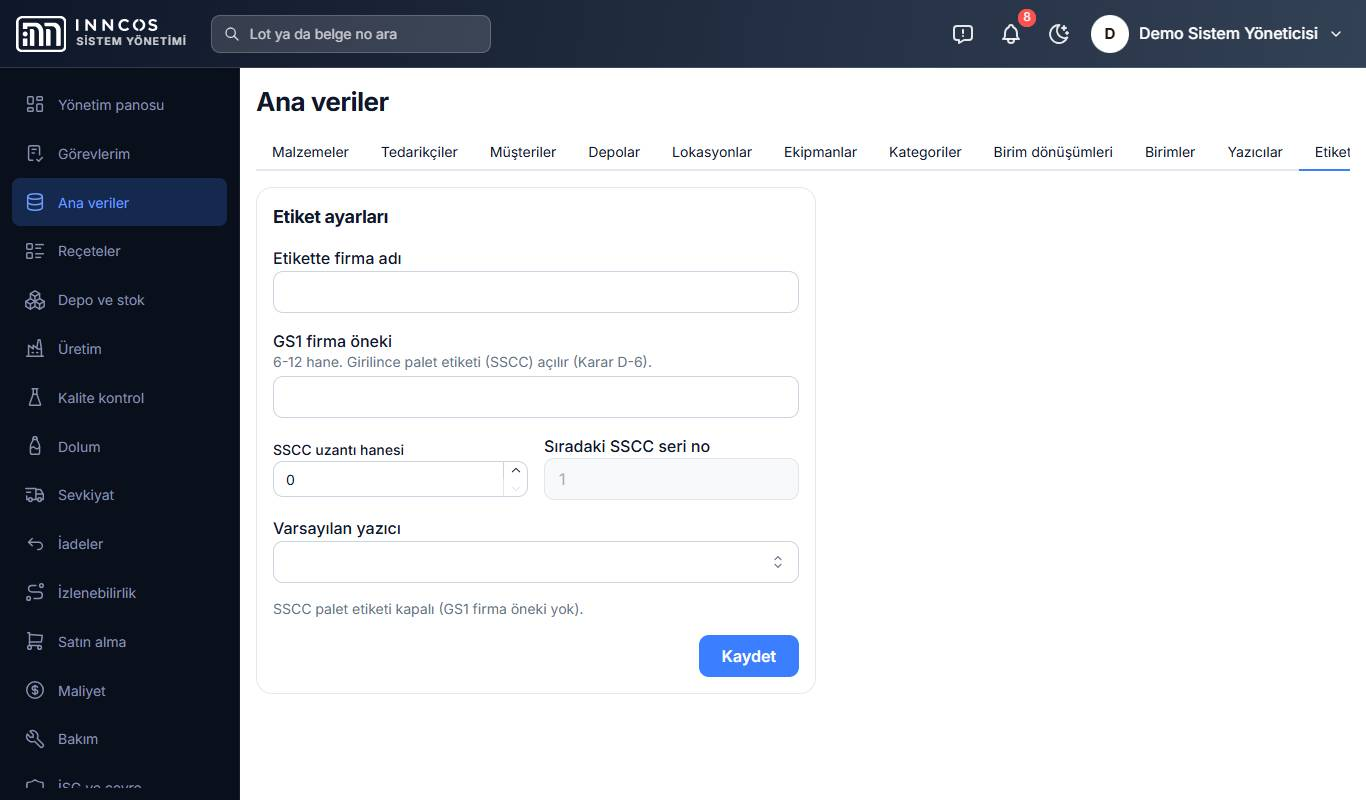
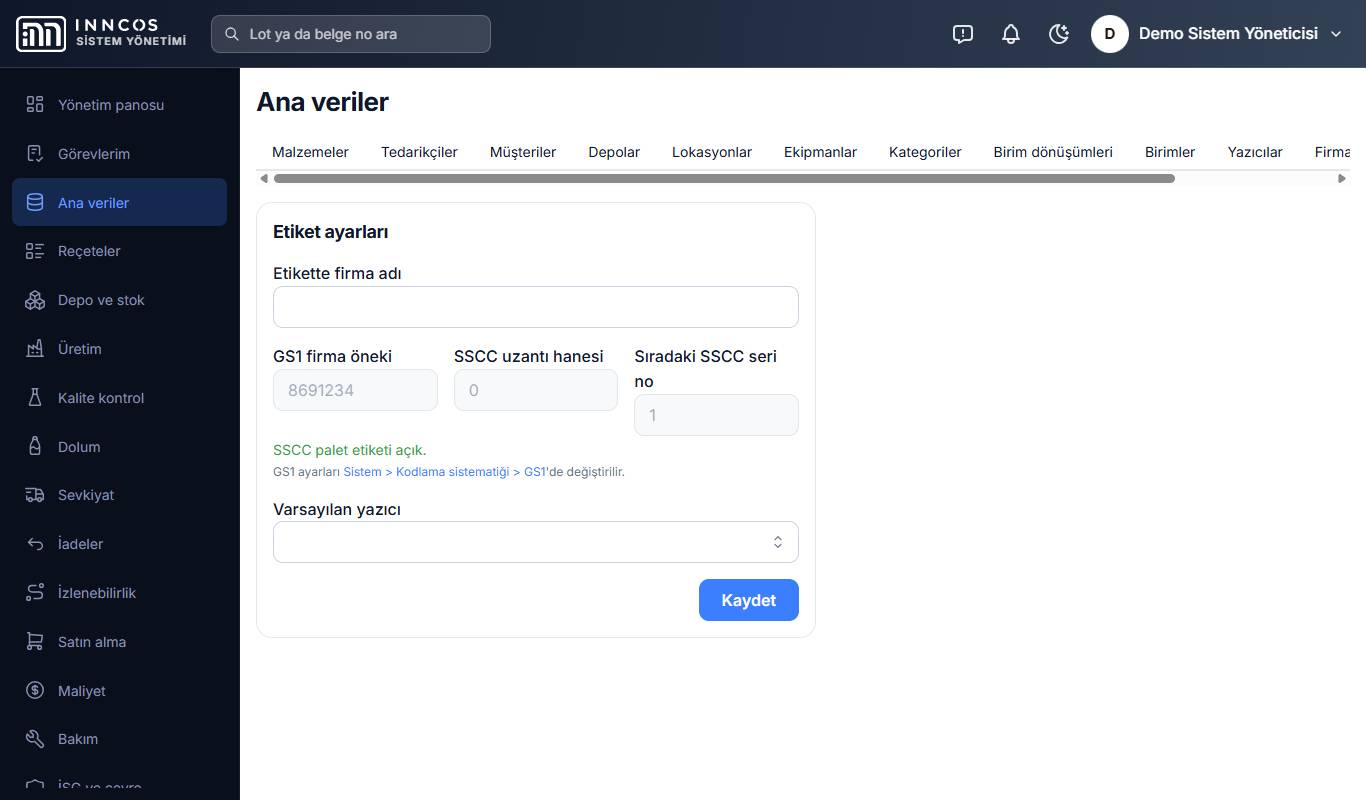
docs: kodlama sistematiği kılavuzu
Kodlama sistematiği Paket 2, Adım 9: yardım sayfasındaki rol kılavuzları.

- Sistem yöneticisi: Kodlama sistematiği bölümü (ana veri kodları, belge
  ve lot numaraları, kod göçü, çıktıların doküman kodu, GS1); Etiket
  ayarlarında GS1'in yalnız görünmesi; QR notu ve Zebra deneme baskısı.
- Planlama: kod önerisi ve kilidi, cari ülkesi, GTIN ve koli GTIN'i, koli
  içi adet değişimi, tür kilidi.
- Depo, dolum, üretim, sevkiyat: GS1 koli barkoduyla okutma, uyarılar,
  toplamada bir koli, irsaliyede koli sayısı.
- Ekran görüntüleri: admin-kodlama, admin-kodlama-gs1 (yeni),
  admin-etiket-ayarlari (yenilendi); betik bunları üretir.

diff --git a/frontend/src/modules/help/guides/admin.md b/frontend/src/modules/help/guides/admin.md
@@ -1,6 +1,6 @@
 # Sistem yöneticisi
 
-Sistem yöneticisi; kullanıcıları ve rollerini yönetir, kullanıcıların gönderdiği sorun bildirimlerini çözer, etiket yazıcılarını ve etiket ayarlarını tutar. Yönetici her menüyü görür.
+Sistem yöneticisi; kullanıcıları ve rollerini yönetir, kullanıcıların gönderdiği sorun bildirimlerini çözer, kodlama sistematiğini (kod, belge ve lot numarası biçimleri, çıktıların doküman kodu, GS1), etiket yazıcılarını ve etiket ayarlarını tutar. Yönetici her menüyü görür.
 
 ## Kullanıcı açma ve rol verme
 
@@ -42,6 +42,60 @@ Kullanıcı sağ üstteki **Sorun bildir** simgesiyle bildirim gönderince **Gö
 
 > **Sorun bildirimleri** sekmesini yalnızca sistem yöneticisi görür. Bildiren kullanıcı yalnızca kendi bildirimini açabilir.
 
+## Kodlama sistematiği
+
+Ana veri kodlarının, belge ve lot numaralarının biçimi, çıktıların doküman kodu ve GS1 ayarları **Sistem > Kodlama sistematiği** ekranındadır. Bu ekranı yalnızca sistem yöneticisi görür. Her değişiklik notuyla **Geçmiş** bölümüne yazılır. Değişiklik yalnızca bundan sonra verilecek kod ve numaraları etkiler; verilmiş olanlar değişmez.
+
+![Kodlama sistematiği](/kilavuz/admin-kodlama.jpg)
+
+**Ana veri kodları**
+
+1. Türün satırında **Düzenle**'ye basın.
+2. **Önek**'i ve **Sıra hanesi**'ni girin (ör. MLZ ve 7 hane: MLZ-0000001). Ekipmanda her ekipman türünün kendi öneki vardır.
+3. **Biçimi etkinleştir**'i işaretleyin. Etkin türde yeni kayıtta kod önerilir ve biçime uymayan yeni kod kabul edilmez. Kapalı türde kod serbesttir.
+4. Gerekirse **Sıradaki numara**'yı düzeltin. Dolu ya da başka kaydın eski kodu olan numara atlanır.
+5. **Değişiklik notu**'nu yazın, önizlemeyi kontrol edip **Kaydet**'e basın ve onaylayın.
+
+> Kayıt açıldıktan sonra kodu yalnızca sistem yöneticisi değiştirir. Eski kod kayıtta kalır; aramada, barkod okutmada ve Excel içe aktarmada tanınır, başka kayda verilmez. Birim ve H/P/EUH gibi uluslararası standart kodlar bu ekrandan değiştirilmez.
+
+**Belge ve lot numaraları**
+
+**Belge numaraları** ve **Lot numaraları** bölümlerinde önek ile yıl ya da tarih biçimi seçilir (ör. `UE-2026-00001`, `D-20261105-001`). Önek değişince sayaç yeni önekte 1'den başlar. İrsaliye numarası yasal belge numarasıdır; biçimi değiştirilemez.
+
+**Kod göçü**
+
+Mevcut kodları yeni biçime taşır. Önce yedek alın; ekran son yedeğin zamanını gösterir.
+
+1. **Kod göçü** bölümünde **Kod türü**'nü seçip **Önizle**'ye basın. Biçime uyan kodlar kalır, uymayanlar oluşturulma sırasıyla sıradaki boş kodu alır.
+2. Listeyi kontrol edin, **Göç notu**'nu yazın, taşı düğmesine basıp onaylayın.
+3. Göç geri alınabilir: **Uygulanan göçler** listesinde **Geri al**'a basın. Kodu hâlâ göçteki yeni kod olan kayıtlar eski koduna döner.
+
+> Göç stok miktarlarını, lot ve belge numaralarını değiştirmez. Eski kodlar aranmaya ve okutulmaya devam eder.
+
+**Çıktılar (doküman kodu)**
+
+Basılı çıktılara (PDF ve Excel) kalite yönetim sisteminizin doküman numarası, yayın tarihi ve revizyonu basılır.
+
+1. **Çıktılar** bölümünde çıktıyı açın. **Doküman no**'yu ve **İlk yayın tarihi**'ni girin.
+2. **Revizyonlar** altında ilk revizyonu ekleyin: revizyon no, yürürlük tarihi, değişiklik açıklaması, onaylayan ve onay tarihi.
+3. **Çıktıya basılsın**'ı işaretleyip kaydedin. Bant PDF'in her sayfasının altına, Excel'de yazdırma alt bilgisine basılır.
+
+> Belge kendi tarihinde yürürlükte olan revizyonla basılır (yeniden basımda da). Revizyonlar değiştirilemez ve silinemez. **Şablon değişti** uyarısı görürseniz değişikliği kalite sisteminizde onaylayıp yeni revizyon girin. İrsaliyede bandı açmadan önce mali müşavirinize danışın.
+
+**GS1**
+
+GS1 firma öneki palet etiketindeki SSCC numarasında ve mamullerin GTIN önerisinde kullanılır.
+
+1. **GS1** bölümünde **Düzenle**'ye basın.
+2. GS1 Türkiye'nin verdiği **Firma öneki**'ni girin. Önek girilince palet etiketi (SSCC) açılır.
+3. GTIN önerisi için **Sıradaki ürün referansı**'nı girin: önekten sonraki ilk boş ürün numarası. Kullanılmış GTIN'ler atlanır.
+4. **SSCC uzantı hanesi** genelde 0 kalır.
+5. **Değişiklik notu**'nu yazıp kaydedin. Önek değişirse onay sorulur.
+
+![GS1 ayarları](/kilavuz/admin-kodlama-gs1.jpg)
+
+> Basılmış bir SSCC hiçbir zaman yeniden verilmez; eski öneke dönülse de SSCC çakışmaz. Önek değişince ürün referansı silinir; yeni önekteki ilk boş referansı girin.
+
 ## Etiket yazıcıları
 
 1. **Ana veriler > Yazıcılar** sekmesinde **Yeni**'ye basın.
@@ -49,14 +103,15 @@ Kullanıcı sağ üstteki **Sorun bildir** simgesiyle bildirim gönderince **Gö
 3. Satırdaki **Deneme etiketi** simgesine basın. Yazıcıdan deneme etiketi çıkmalıdır.
 4. Çalışmayan ya da kaldırılan yazıcıyı pasife alın.
 
-**Ana veriler > Etiket ayarları** sekmesinde **Etikette firma adı**, **GS1 firma öneki** ve **Varsayılan yazıcı** girilir. GS1 firma öneki girilince palet etiketi (SSCC) açılır.
+**Ana veriler > Etiket ayarları** sekmesinde **Etikette firma adı** ve **Varsayılan yazıcı** girilir. GS1 firma öneki ve SSCC bilgisi burada yalnızca görünür; **Sistem > Kodlama sistematiği > GS1**'de değiştirilir.
 
 ![Etiket ayarları](/kilavuz/admin-etiket-ayarlari.jpg)
 
-> Yazıcı tanımlı değilse etiketler PDF olarak basılır. Lokasyon etiketleri **Ana veriler > Lokasyonlar** sekmesindeki yazıcı simgesiyle basılır.
+> Yazıcı tanımlı değilse etiketler PDF olarak basılır. Lokasyon etiketleri **Ana veriler > Lokasyonlar** sekmesindeki yazıcı simgesiyle basılır. Lot ya da lokasyon kodunda Türkçe harf ya da > varsa etikete çizgi barkod basılmaz, etiketteki QR kodu okutulur. Fabrikadaki Zebra yazıcıda bunu bir kez deneyin: deneme baskısı KURULUM belgesinin 3. bölümündedir.
 
 ## Diğer yönetici işleri
 
 - **Elle serbest bırak**: Lot sayfasında yalnızca yöneticiye görünür. Olağan serbest bırakma laboratuvar kararıyla yapılır; bu düğme istisnai durumlar içindir ve gerekçe denetim günlüğüne yazılır.
 - **Canlıya geçiş > Hazırlık** listesindeki "Kullanıcılar" ve "Etiket yazıcıları" maddeleri sizin sorumluluğunuzdadır.
+- **Birimler**: **Ana veriler > Birimler** sekmesini yalnızca sistem yöneticisi yazar. Her birimin uluslararası **UN/ECE kodu** (KGM, LTR, C62; koli XCT, palet XPX) ve **Sembol**'ü vardır.
 - Kullanıcı bir ekranı göremediğini söylerse önce rollerini kontrol edin. Menü ve sekmeler role göre açılır.

diff --git a/frontend/src/modules/help/guides/planlama.md b/frontend/src/modules/help/guides/planlama.md
@@ -42,9 +42,19 @@ Emir sayfası emrin durumunu baştan sona gösterir.
 2. Değişiklik için onaylı sürümde **Kopyala (yeni taslak)**'a basın ve neyin değişeceğini yazın.
 3. Taslakta satırları düzenleyin. **Karşılaştır** ile eski sürümle farkı, **Ölçekle** ile hedef miktara göre ihtiyacı görün.
 4. **Onayla**'ya basın. Yeni sürüm geçerli olur, eski sürüm "Geçersiz" olur.
-5. Malzeme, tedarikçi, müşteri, lokasyon ve ekipman **Ana veriler** menüsündedir. Çok sayıda kaydı **Excel'den içe aktar** ile yükleyebilirsiniz.
+5. Malzeme, tedarikçi, müşteri, lokasyon ve ekipman **Ana veriler** menüsündedir. Çok sayıda kaydı **Excel'den içe aktar** ile yükleyebilirsiniz; kod sütununu boş bırakırsanız sistem sıradaki kodu verir.
+6. Yeni kayıtta kod önerilir (sistem yöneticisi o türün biçimini etkinleştirdiyse). Kodu değiştirebilirsiniz ama biçime uymalıdır. Kayıt açıldıktan sonra kodu yalnızca sistem yöneticisi değiştirir; eski kod aramada ve okutmada tanınır.
+7. Tedarikçi ve müşteri kartında **Ülke** listeden seçilir; yeni kayıtta Türkiye gelir.
 
 > Kullanılmış kayıt silinmez. Artık kullanılmayan malzemeyi pasife alın.
+
+## GTIN ve koli GTIN'i
+
+- **Mamul GTIN'i**: malzeme kartında **Tür** Mamul ise **GTIN öner** düğmesi sıradaki boş GTIN'i yazar (sistem yöneticisi GS1 ayarlarını girdiyse). GTIN'i elle de girebilirsiniz; kontrol hanesi denetlenir, aynı GTIN iki kayıtta olamaz.
+- Lotu olan mamulün GTIN'i değiştirilemez: basılmış koli ve palet etiketleri bu GTIN'i taşır. Hammadde, ambalaj ve yarı mamulde tedarikçinin GTIN'i lot olsa da düzeltilebilir.
+- **Koli GTIN'i**: **Birim dönüşümleri** sekmesinde mamulün KOLI dönüşümüne girilir; **Koli GTIN'i öner** ürün GTIN'inden türetir. Koli ve palet etiketine koli GTIN'i basılır, koli okutulunca bir koli miktarı gelir. Koli GTIN'i yoksa etikete ürün GTIN'i basılır.
+- **Koli içi adet değişirse** (ör. 12'li koli 24'lü olursa) KOLI dönüşümünde **Temel birim karşılığı**'na yeni adedi yazın: **Koli GTIN'i** alanı açılır, boşalır ve zorunlu olur. Yeni koli GTIN'ini yazın ya da **Koli GTIN'i öner**'e basın, sonra **Kaydet**'e basın. Eski GTIN eski adediyle arşivlenir ve bir daha verilmez; alanın altındaki **Eski koli GTIN'leri** listesinde görünür. Depodaki eski koliler okutulunca eski adet önerilir; eski lotların etiketi yeniden basılırsa o lotun yapıldığı günkü koli GTIN'i basılır, irsaliyede de koli sayısı o günkü adetle hesaplanır.
+- Lotu olan malzemenin türü Mamul'den başka türe ya da başka türden Mamul'e değiştirilemez. Yanlış türde açılmış kart için yeni kart açın.
 
 ## Size düşen görevler
 

diff --git a/frontend/src/modules/help/guides/depo.md b/frontend/src/modules/help/guides/depo.md
@@ -53,6 +53,10 @@ Dolum hattına ambalaj hazırlamak aynı şekildedir: **Dolum > Ambalaj hazırla
 - Okutulan lot yanlış malzemeye aitse kırmızı uyarı çıkar ve uyarı sesi duyulur. Doğru lotu bulun.
 - Karantinadaki, bloke ya da SKT'si geçmiş lot kabul edilmez. Laboratuvara sorun.
 - Etiket okunmayacak kadar bozuksa lot sayfasından **Etiket yazdır** ile yenisini basın.
+- Kolinin GS1 barkodu da okutulabilir: barkoddaki GTIN malzemeyi, lot alanı lotu bulur.
+- **Eski etiket okutuldu** uyarısı, kodu sonradan değişmiş bir kaydın eski etiketidir. Okutma geçerlidir; etiketi fırsat buldukça yenileyin.
+- Lot numarasında Türkçe harf varsa etikette çizgi barkod yerine "Barkod yok: QR kodu okutun." yazar; QR kodunu okutun.
+- Barkoddaki son kullanma tarihi lot kaydındakinden farklıysa sarı uyarı çıkar. Etiketi ve lotu kontrol edin.
 
 ## Sevkiyat toplama (tablet)
 
@@ -61,14 +65,14 @@ Sevkiyat birimi sevkiyat planlayınca toplama görevi düşer.
 1. **Sevkiyat > Toplama** sekmesinde sevkiyatın kartına dokunun. Toplama ekranı açılır.
 2. Toplayacağınız satıra dokunun. Önce siparişe rezerve edilen lot, sonra SKT'si en yakın lot önerilir.
 3. Paletin ya da kolinin etiketini **Lot okut** alanına okutun.
-4. **Miktar** boş kalırsa satırın kalanı alınır. **Topla**'ya basın. Mal sevk alanına taşınır.
+4. **Miktar** boş kalırsa satırın kalanı alınır. Koli etiketini okutursanız miktar bir koli olur (satırın kalanını aşmaz). **Topla**'ya basın. Mal sevk alanına taşınır.
 5. Rezerve olmayan bir lot okutursanız gerekçe sorulur. Uygun gerekçeyi seçip **Gerekçeyle topla**'ya basın.
 6. Yanlış okuttuysanız okutulan lotlar listesinde **Geri al**'a basın.
 7. Mal araca yüklenince **Yükleme tamam**'a basın. Sevkiyat birimine sevk onayı görevi düşer.
 
 ![Sevkiyat toplama](/kilavuz/depo-toplama.jpg)
 
-> Müşterinin istediği raf ömrünü karşılamayan lot gri ve **Raf ömrü yetersiz** olarak görünür; seçilemez.
+> Müşterinin istediği raf ömrünü karşılamayan lot gri ve **Raf ömrü yetersiz** olarak görünür; seçilemez. Koli düzeni değişmiş eski bir koli okutulursa sarı uyarı çıkar ve eski koli içi adet önerilir. Aynı lot numarası sevkiyattaki birden çok üründe varsa lotu listeden seçin ya da koli barkodunu okutun.
 
 ## Sayım düzeltme
 

diff --git a/docs/PROGRESS.md b/docs/PROGRESS.md
@@ -1399,3 +1399,15 @@ Plan `docs/plan/kodlama-sistematigi.md` §6; kararlar DECISIONS "2026-11-04 — 
     `inventory/tests/test_gs1_labels.py`, `sales/tests/test_shipments.py` (irsaliye koli sayısı),
     üretim, dolum ve sevkiyat API testleri; ön yüz `MasterDataPage.test.tsx`; tam backend ve ön yüz
     testleri yeşil.
+- **Adım 9:** kılavuz (yardım sayfası).
+  - Sistem yöneticisi: yeni "Kodlama sistematiği" bölümü (ana veri kodları, belge ve lot
+    numaraları, kod göçü, çıktıların doküman kodu, GS1); Etiket ayarlarında GS1 yalnız görünür;
+    Türkçe harfli ya da > içeren kodlarda QR okutulur ve Zebra deneme baskısı; birimlerin UN/ECE
+    kodu.
+  - Planlama: kod önerisi, kod kilidi, Excel'de boş kod, cari ülkesi; yeni "GTIN ve koli GTIN'i"
+    bölümü (GTIN öner, lot kilidi yalnız mamulde, koli GTIN'i, koli içi adet değişimi, tür kilidi).
+  - Depo, dolum, üretim ve sevkiyat: koli GS1 barkoduyla okutma, eski etiket uyarısı, Türkçe harfli
+    lotta QR, SKT farkı uyarısı, toplamada bir koli, irsaliyede koli sayısı.
+  - Ekran görüntüleri: `admin-kodlama`, `admin-kodlama-gs1` (yeni), `admin-etiket-ayarlari`
+    (yenilendi). `scripts/kilavuz-ekran-goruntuleri.mjs` bunları üretir; demo verisinde GS1 öneki
+    yoksa örnek önek girer.

diff --git a/frontend/src/modules/help/guides/dolum.md b/frontend/src/modules/help/guides/dolum.md
@@ -34,7 +34,7 @@ Depo **Ambalaj hazır** deyince **Görevlerim**'e dolum görevi düşer.
 
 ## Lot okutulamıyorsa
 
-- Lot numarasını **Lot okut** alanına elle yazıp Enter'a basın.
+- Lot numarasını **Lot okut** alanına elle yazıp Enter'a basın. Ambalajın koli etiketindeki GS1 barkodu da okutulabilir.
 - Bulk için **Tanklardaki serbest bulk** tablosunda tankın satırına dokunun. Lot seçilir.
 - Reçetede olmayan malzemenin lotunu okutursanız kırmızı uyarı çıkar ve uyarı sesi duyulur. Kaydedilmez.
 - Tabloda bulk lot yoksa bulk henüz laboratuvardan serbest çıkmamıştır. Laboratuvara sorun.
@@ -53,6 +53,8 @@ Depo **Ambalaj hazır** deyince **Görevlerim**'e dolum görevi düşer.
 ## Koli etiketi
 
 Parti ekranının üstündeki **Koli etiketi** düğmesi etiket penceresini açar. Yazıcıyı ve kopya sayısını seçip gönderin. Yazıcı tanımlı değilse PDF olarak alıp basın.
+
+Koli etiketine malzemenin koli GTIN'i basılır. Pencerede sarı uyarı çıkarsa koli GTIN'i tanımlı değildir ve etikete ürün GTIN'i basılır; planlamaya haber verin. Lot numarası GS1'e uymuyorsa ya da GTIN geçersizse pencere bunu söyler ve etikete firma içi barkod basılır.
 
 ## Partiyi ve dolumu bitirme
 

diff --git a/frontend/src/modules/help/guides/sevkiyat.md b/frontend/src/modules/help/guides/sevkiyat.md
@@ -48,6 +48,8 @@ Depo lotları okutup **Yükleme tamam** deyince size "sevk onayı" görevi gelir
 
 > Yükleme öncesi vazgeçilen sevkiyat **Sevkiyatı iptal et** ile iptal edilir; okutulan lotlar yerine döner.
 
+> İrsaliyedeki koli sayısı lotun üretildiği günkü koli içi adetle hesaplanır. Koli düzeni sonradan değişse de sevk edilmiş irsaliyenin yeniden basımı değişmez.
+
 ## Müşteriler
 
 **Müşteriler** sekmesinde müşteri kartı açılır: sipariş geçmişi ve müşteriye sevk edilen lotlar. Müşteri bilgileri, adres ve asgari kalan raf ömrü **Ana veriler** ekranından planlama ya da yönetim tarafından düzenlenir.

diff --git a/frontend/src/modules/help/guides/uretim.md b/frontend/src/modules/help/guides/uretim.md
@@ -36,6 +36,7 @@ Depo **Malzeme hazır** deyince **Görevlerim**'e üretim görevi düşer.
 
 ## Lot okutulamıyorsa
 
+- Lot etiketinin barkodu ya da QR kodu, kolinin GS1 barkodu ve elle yazılan lot numarası kabul edilir; büyük/küçük harf fark etmez.
 - Lot numarasını **Lot barkodu** alanına elle yazıp Enter'a basın.
 - Ya da **Kullanılabilir lotlar** tablosunda lotun satırına dokunun. Tek lot varsa kendiliğinden seçilidir.
 - Yanlış malzemenin lotunu okutursanız kırmızı uyarı çıkar ve uyarı sesi duyulur. Kaydedilmez.
